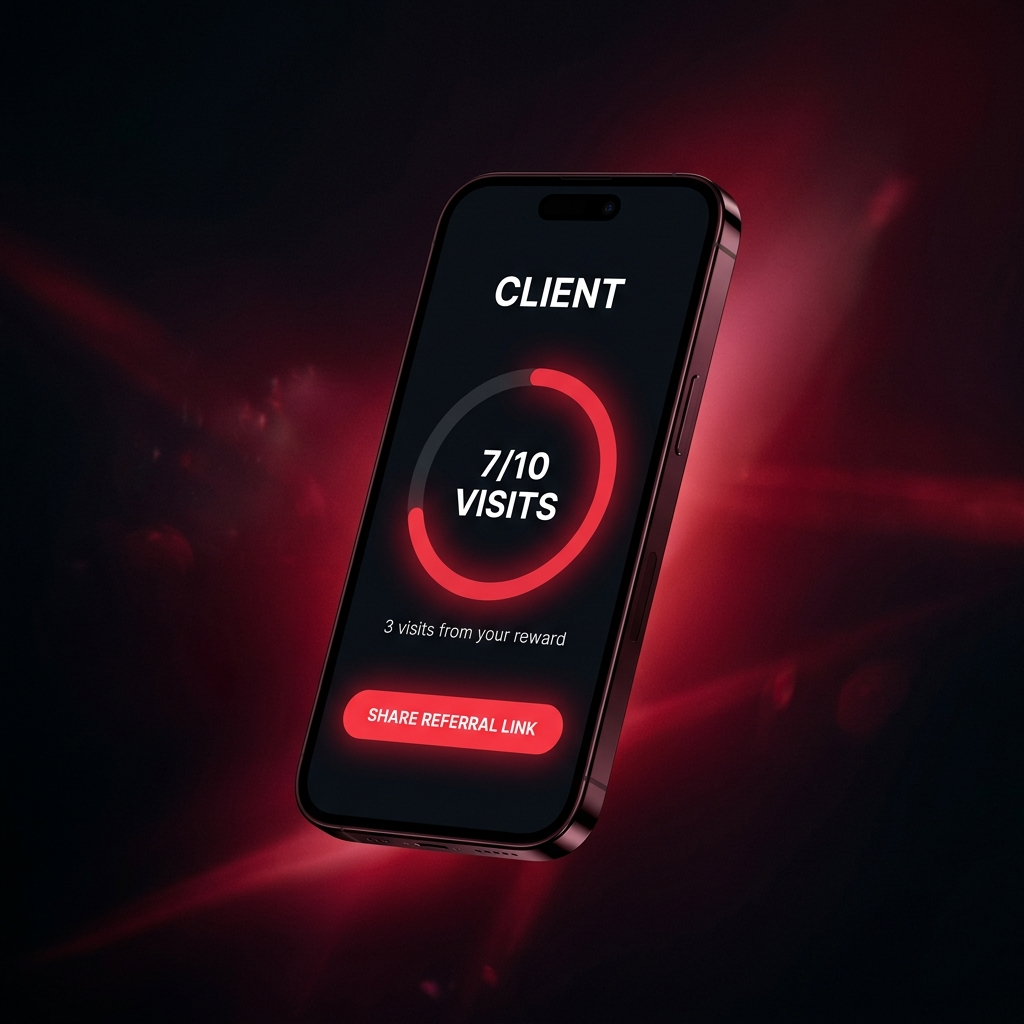
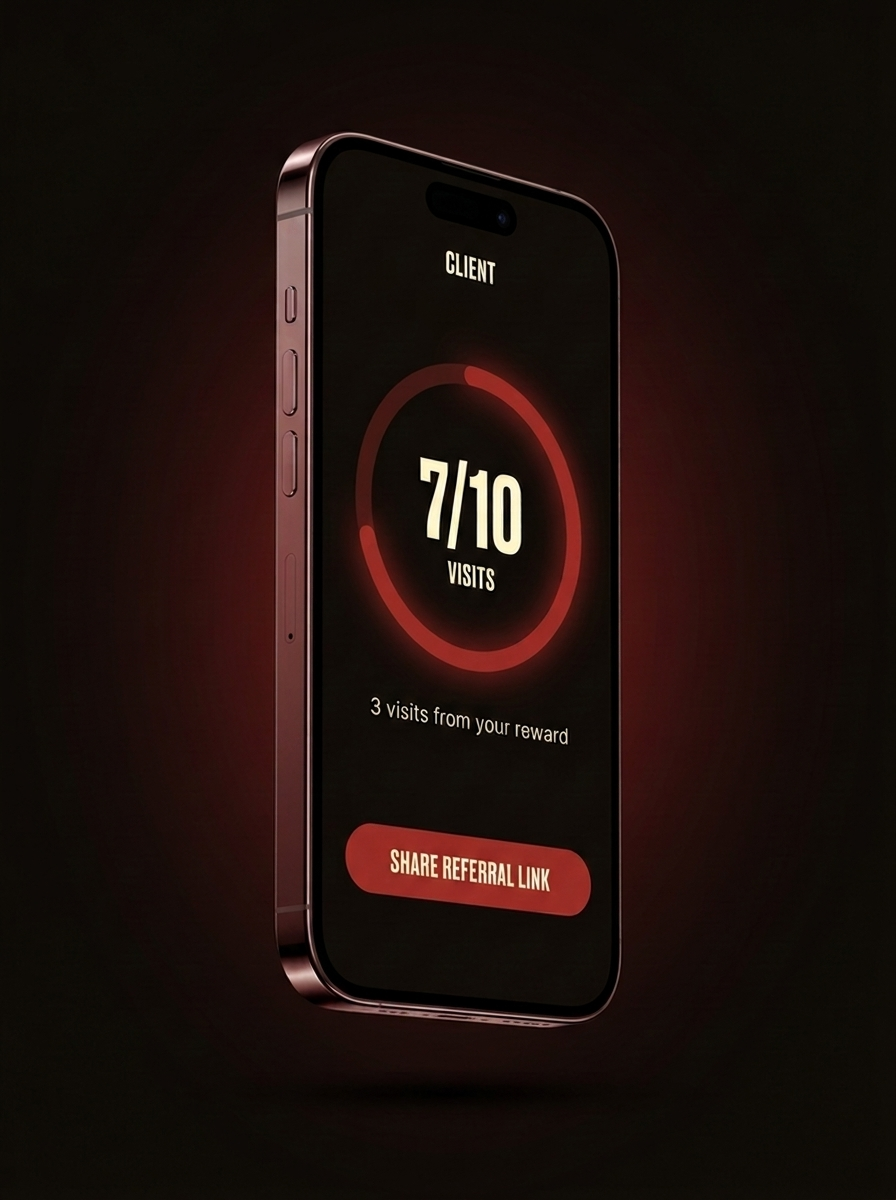
Swap hero to the correct render extracted from v6

Changed region(s): [[0.125, 0.0625, 1.0, 0.9688], [0.0312, 0.25, 0.125, 0.3438], [0.1562, 0.5, 0.1875, 0.5312]]

diff --git a/loyalty.html b/loyalty.html
@@ -328,7 +328,7 @@
       </div>
     </div>
     <div class="phone-stage reveal in">
-      <img class="render" id="render" width="1024" height="1024" alt="A phone showing a customer's branded loyalty progress screen with 7 of 10 visits toward a reward" src="phone-hero.png" />
+      <img class="render" id="render" width="896" height="1200" alt="A phone showing a customer's branded loyalty progress screen with 7 of 10 visits toward a reward" src="phone-hero.png" />
       <div class="phone-cap">Branded in your colours &amp; logo</div>
     </div>
   </div>
